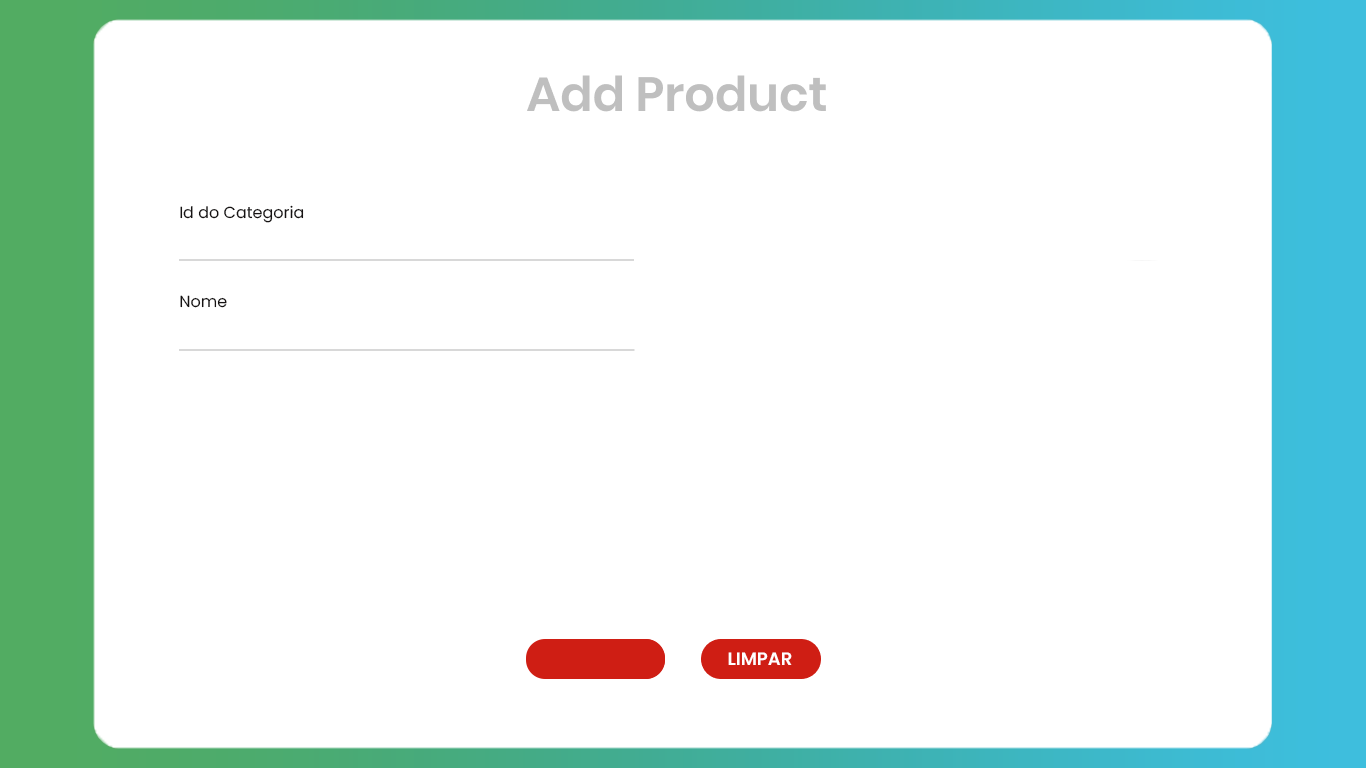
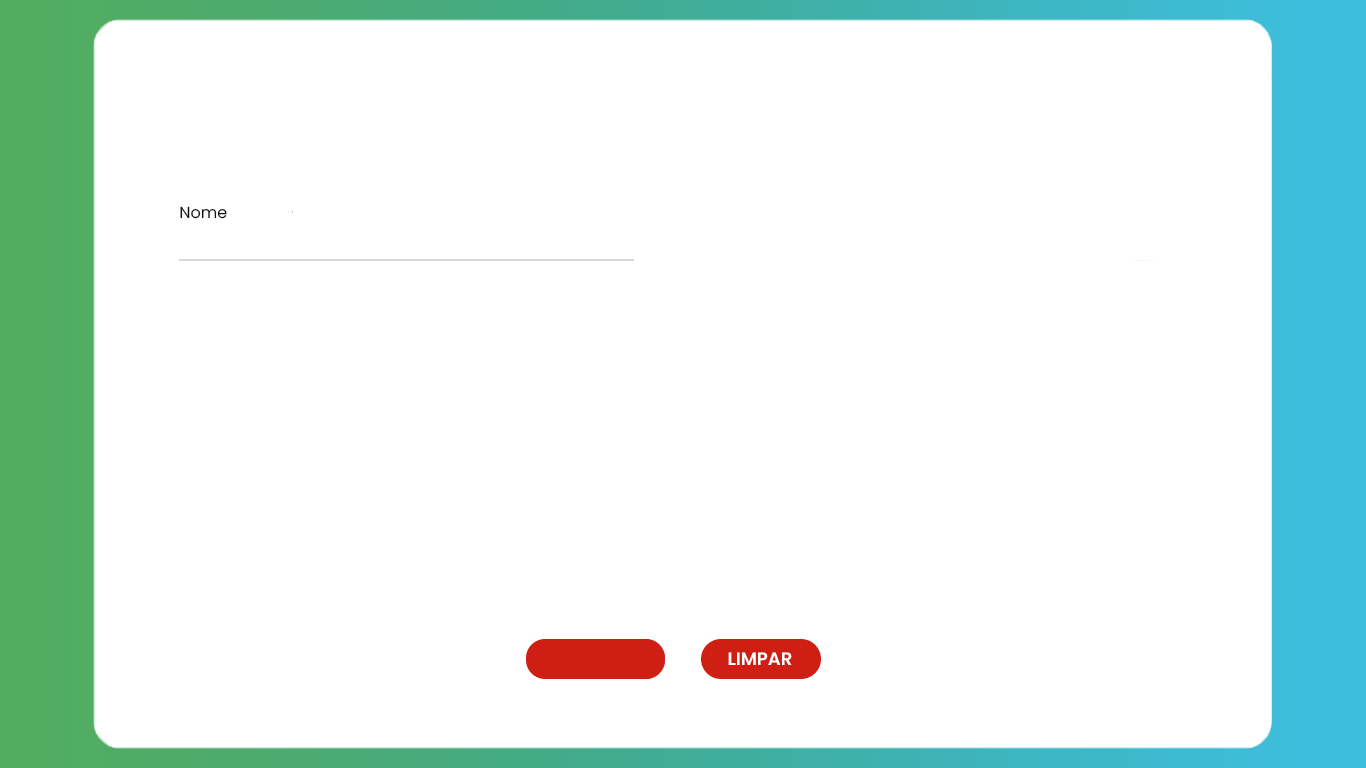
Operacoes Funcionario

Changed region(s): [[0.369, 0.0938, 0.6149, 0.1562], [0.123, 0.25, 0.2152, 0.2812], [0.123, 0.375, 0.1537, 0.4062]]

diff --git a/views/gui/editar/editCategoria.py b/views/gui/editar/editCategoria.py
@@ -27,12 +27,8 @@ class EditCategoria:
         self.clock.configure(font="-family {Poppins Light} -size 12")
         self.clock.configure(foreground="#000000", background="#ffffff")
 
-        self.txtIdCategoria = Entry(p_add)
-        self.txtIdCategoria.place(relx=0.132, rely=0.296, width=450, height=30)
-        self.txtIdCategoria.configure(font="-family {Poppins} -size 12", relief="flat")
-
         self.txtNome = Entry(p_add)
-        self.txtNome.place(relx=0.132, rely=0.413, width=450, height=30)
+        self.txtNome.place(relx=0.132, rely=0.296, width=450, height=30)
         self.txtNome.configure(font="-family {Poppins} -size 12", relief="flat")
 
         self.btnAdicionar = Button(p_add, text="ACTUALIZAR", command=self.btnActualizar_click)
@@ -62,14 +58,11 @@ class EditCategoria:
     def preencherTxt(self):
         for i in range(len(database.lstCateg)):
             if database.lstCateg[i].idCateg == self.idCateg:
-                self.txtIdCategoria.delete(0, END)
-                self.txtIdCategoria.insert(0, database.lstCateg[i].idCateg)
-                self.txtNome.delete(0, END)
                 self.txtNome.insert(0, database.lstCateg[i].nome)
 
     def btnActualizar_click(self):
         nome = self.txtNome.get()
-        database.db.updCateg(self.idCateg.get(), nome)
+        database.db.updCateg(self.idCateg, nome)
         messagebox.showinfo("Sucesso!!", "As alterações foram efectuadas com sucesso.", parent=p_add)
         database.db.lerCategoria()
         categorias.updList()

diff --git a/views/gui/editar/editFuncionario.py b/views/gui/editar/editFuncionario.py
@@ -30,10 +30,6 @@ class EditFuncionario:
         self.clock.configure(font="-family {Poppins Light} -size 12")
         self.clock.configure(foreground="#000000", background="#ffffff")
 
-        self.txtIdFuncionario = Entry(p_edit)
-        self.txtIdFuncionario.place(x=177, y=144, width=200, height=30)
-        self.txtIdFuncionario.configure(font="-family {Poppins} -size 12", relief="raised")
-
         self.txtNrBI = Entry(p_edit)
         self.txtNrBI.place(x=179, y=209, width=450, height=30)
         self.txtNrBI.configure(font="-family {Poppins} -size 12", relief="flat")
@@ -118,7 +114,6 @@ class EditFuncionario:
     def preencherTxt(self):
         for i in range(len(database.lstFunc)):
             if database.lstFunc[i].idFunc == self.idFunc:
-                self.txtIdFuncionario.insert(0, database.lstFunc[i].idFunc)
                 self.txtNome.insert(0, database.lstFunc[i].pNome)
                 self.txtApelido.insert(0, database.lstFunc[i].apelido)
                 dataNasc = datetime.strptime(str(database.lstFunc[i].dataNascimento), "%Y-%m-%d").strftime('%d/%m/%Y')

diff --git a/views/gui/adicionar/addCategoria.py b/views/gui/adicionar/addCategoria.py
@@ -26,12 +26,8 @@ class AddCategoria:
         self.clock.configure(font="-family {Poppins Light} -size 12")
         self.clock.configure(foreground="#000000", background="#ffffff")
 
-        self.txtIdCategoria = Entry(p_add)
-        self.txtIdCategoria.place(relx=0.132, rely=0.296, width=450, height=30)
-        self.txtIdCategoria.configure(font="-family {Poppins} -size 12", relief="flat")
-
         self.txtNome = Entry(p_add)
-        self.txtNome.place(relx=0.132, rely=0.413, width=450, height=30)
+        self.txtNome.place(relx=0.132, rely=0.296, width=450, height=30)
         self.txtNome.configure(font="-family {Poppins} -size 12", relief="flat")
 
         self.btnAdicionar = Button(p_add, text="ADICIONAR", command=self.btnAdicionar_click)

diff --git a/views/gui/adicionar/addFuncionario.py b/views/gui/adicionar/addFuncionario.py
@@ -27,10 +27,6 @@ class AddFuncionario:
         self.clock.configure(font="-family {Poppins Light} -size 12")
         self.clock.configure(foreground="#000000", background="#ffffff")
 
-        self.txtIdFuncionario = Entry(p_add)
-        self.txtIdFuncionario.place(x=177, y=144, width=200, height=30)
-        self.txtIdFuncionario.configure(font="-family {Poppins} -size 12", relief="raised")
-
         self.txtNrBI = Entry(p_add)
         self.txtNrBI.place(x=179, y=209, width=450, height=30)
         self.txtNrBI.configure(font="-family {Poppins} -size 12", relief="flat")

diff --git a/views/gui/gerir/funcionarios.py b/views/gui/gerir/funcionarios.py
@@ -203,7 +203,10 @@ class Funcionario:
                                  parent=mainLbl)
 
     def btnUpdFuncionario_click(self):
-        editFuncionario.callEditFuncionario(self.tree.item(self.tree.focus())["values"][0])
+        if len(self.sel) != 0:
+            editFuncionario.callEditFuncionario(self.tree.item(self.tree.focus())["values"][0])
+        else:
+            messagebox.showerror("Erro!!", "Por favor, selecione um item na lista.", parent=mainLbl)
 
     def btnDelFuncionario_click(self):
         if len(self.sel) != 0:

diff --git a/views/gui/gerir/categorias.py b/views/gui/gerir/categorias.py
@@ -177,7 +177,10 @@ class Categorias:
                                  parent=mainLbl)
 
     def btnUpdCategoria_click(self):
-        editCategoria.callEditCategoria(self.tree.item(self.tree.focus())["values"][0])
+        if len(self.sel) != 0:
+            editCategoria.callEditCategoria(self.tree.item(self.tree.focus())["values"][0])
+        else:
+            messagebox.showerror("Erro!!", "Por favor, selecione um item na lista.", parent=mainLbl)
 
     def btnDelCategoria_click(self):
         if len(self.sel) != 0:
